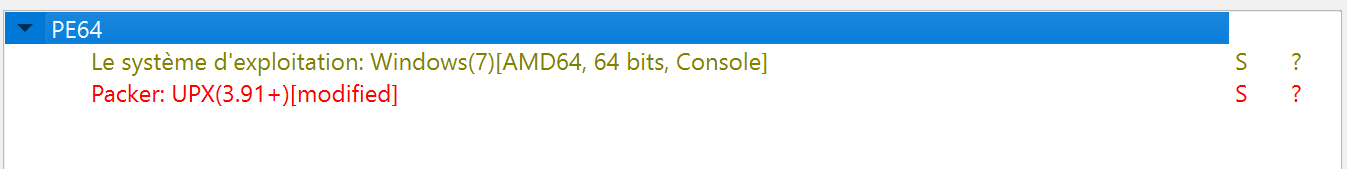
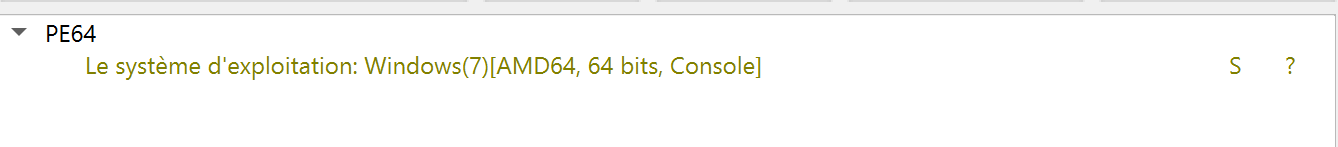
Add files via upload

diff --git a/main.go b/main.go
@@ -3,42 +3,124 @@ package main
 import (
 	"bytes"
 	"crypto/rand"
+	"encoding/binary"
 	"fmt"
 	"io/ioutil"
 	"log"
+	"math/big"
 )
 
 func main() {
+	log.SetFlags(0)
 	filePath := "main.exe"
 
 	// Read the binary file
 	data, err := ioutil.ReadFile(filePath)
 	if err != nil {
-		log.Fatalf("Error reading file: %v", err)
+		log.Fatalf("[-] Error reading file: %v", err)
 	}
 
-	// Locate the UPX header
-	upxHeader := []byte("UPX!")
-	index := bytes.Index(data, upxHeader)
-	if index == -1 {
-		log.Fatal("UPX header not found in the binary.")
+	// Check if the file is a valid Windows executable
+	if !bytes.Equal(data[:2], []byte{0x4D, 0x5A}) {
+		log.Fatal("[+] It doesn't look like a valid Windows executable.")
 	}
+
+	// Check if the file is packed with UPX
+	upxHeader := []byte("UPX!")
+	if !bytes.Contains(data, upxHeader) {
+		randomString := make([]byte, 4)
+		_, err = rand.Read(randomString)
+		if err != nil {
+			log.Fatalf("[-]  Error generating random string: %v", err)
+		}
+		if bytes.Contains(data, randomString) {
+			log.Fatal("[+] This file already patched.")
+		} else {
+			log.Fatal("[-] This file is not packed with UPX.")
+		}
+	}
+
+	log.Println("[*] Sections confusing...")
 
 	// Generate a random 4-byte string
-	randomName := make([]byte, 4)
-	_, err = rand.Read(randomName)
+	randomString := make([]byte, 4)
+	_, err = rand.Read(randomString)
 	if err != nil {
-		log.Fatalf("Error generating random name: %v", err)
+		log.Fatalf("[-] Error generating random string: %v", err)
 	}
 
-	// Modify the UPX header to prevent decompression
-	copy(data[index:index+4], randomName)
+	// Patch various sections with the random string
+	patchBytes(data, []byte{0x55, 0x50, 0x58, 0x30, 0x00}, randomString)
+	patchBytes(data, []byte{0x55, 0x50, 0x58, 0x31, 0x00}, randomString)
+	patchBytes(data, []byte{0x55, 0x50, 0x58, 0x32, 0x00}, randomString)
+
+	log.Println("[*] Version block confusing...")
+
+	// Find and patch the UPX version block
+	offset := bytes.Index(data, upxHeader)
+	if offset != -1 {
+		bytesToReplace := 12 + randomInt(1, 3)
+		randomVersion := make([]byte, bytesToReplace)
+		_, err = rand.Read(randomVersion)
+		if err != nil {
+			log.Fatalf("[-] Error generating random version: %v", err)
+		}
+		patchBytesByOffset(data, offset-bytesToReplace+4, randomVersion)
+	} else {
+		log.Fatal("[-] Can't get UPX version block offset.")
+	}
+
+	log.Println("[*] Replacing standard DOS Stub message...")
+
+	// Replace DOS Stub message
+	patchBytes(data, []byte("[-] This program cannot be run in DOS mode."), []byte("[+] This program was packed with UPX."))
+
+	log.Println("[*] WinAPI changing...")
+
+	// Replace WinAPI function name
+	patchBytes(data, []byte("ExitProcess"), []byte("CopyContext"))
+
+	log.Println("[*] EntryPoint patching...")
+
+	// Patch EntryPoint
+	isBuild64 := is64Bit(data)
+	if isBuild64 {
+		patchBytes(data, []byte{0x53, 0x56, 0x57, 0x55}, []byte{0x53, 0x57, 0x56, 0x55})
+	} else {
+		patchBytes(data, []byte{0x00, 0x60, 0xBE}, []byte{0x00, 0x55, 0xBE})
+	}
 
 	// Write the modified binary back to the file
 	err = ioutil.WriteFile(filePath, data, 0644)
 	if err != nil {
-		log.Fatalf("Error writing file: %v", err)
+		log.Fatalf("[-] Error writing file: %v", err)
 	}
 
-	fmt.Println("Binary patched successfully.")
+	fmt.Println("[+] Binary patched successfully.")
+}
+
+func patchBytes(data []byte, oldBytes, newBytes []byte) {
+	index := bytes.Index(data, oldBytes)
+	if index != -1 {
+		copy(data[index:index+len(newBytes)], newBytes)
+	}
+}
+
+func patchBytesByOffset(data []byte, offset int, newBytes []byte) {
+	copy(data[offset:offset+len(newBytes)], newBytes)
+}
+
+func is64Bit(data []byte) bool {
+	// Check if the PE file is 64-bit
+	peHeaderOffset := binary.LittleEndian.Uint32(data[0x3C:])
+	machineType := binary.LittleEndian.Uint16(data[peHeaderOffset+4:])
+	return machineType == 0x8664
+}
+
+func randomInt(min, max int) int {
+	nBig, err := rand.Int(rand.Reader, big.NewInt(int64(max-min+1)))
+	if err != nil {
+		log.Fatalf("[-] Error generating random number: %v", err)
+	}
+	return int(nBig.Int64()) + min
 }
